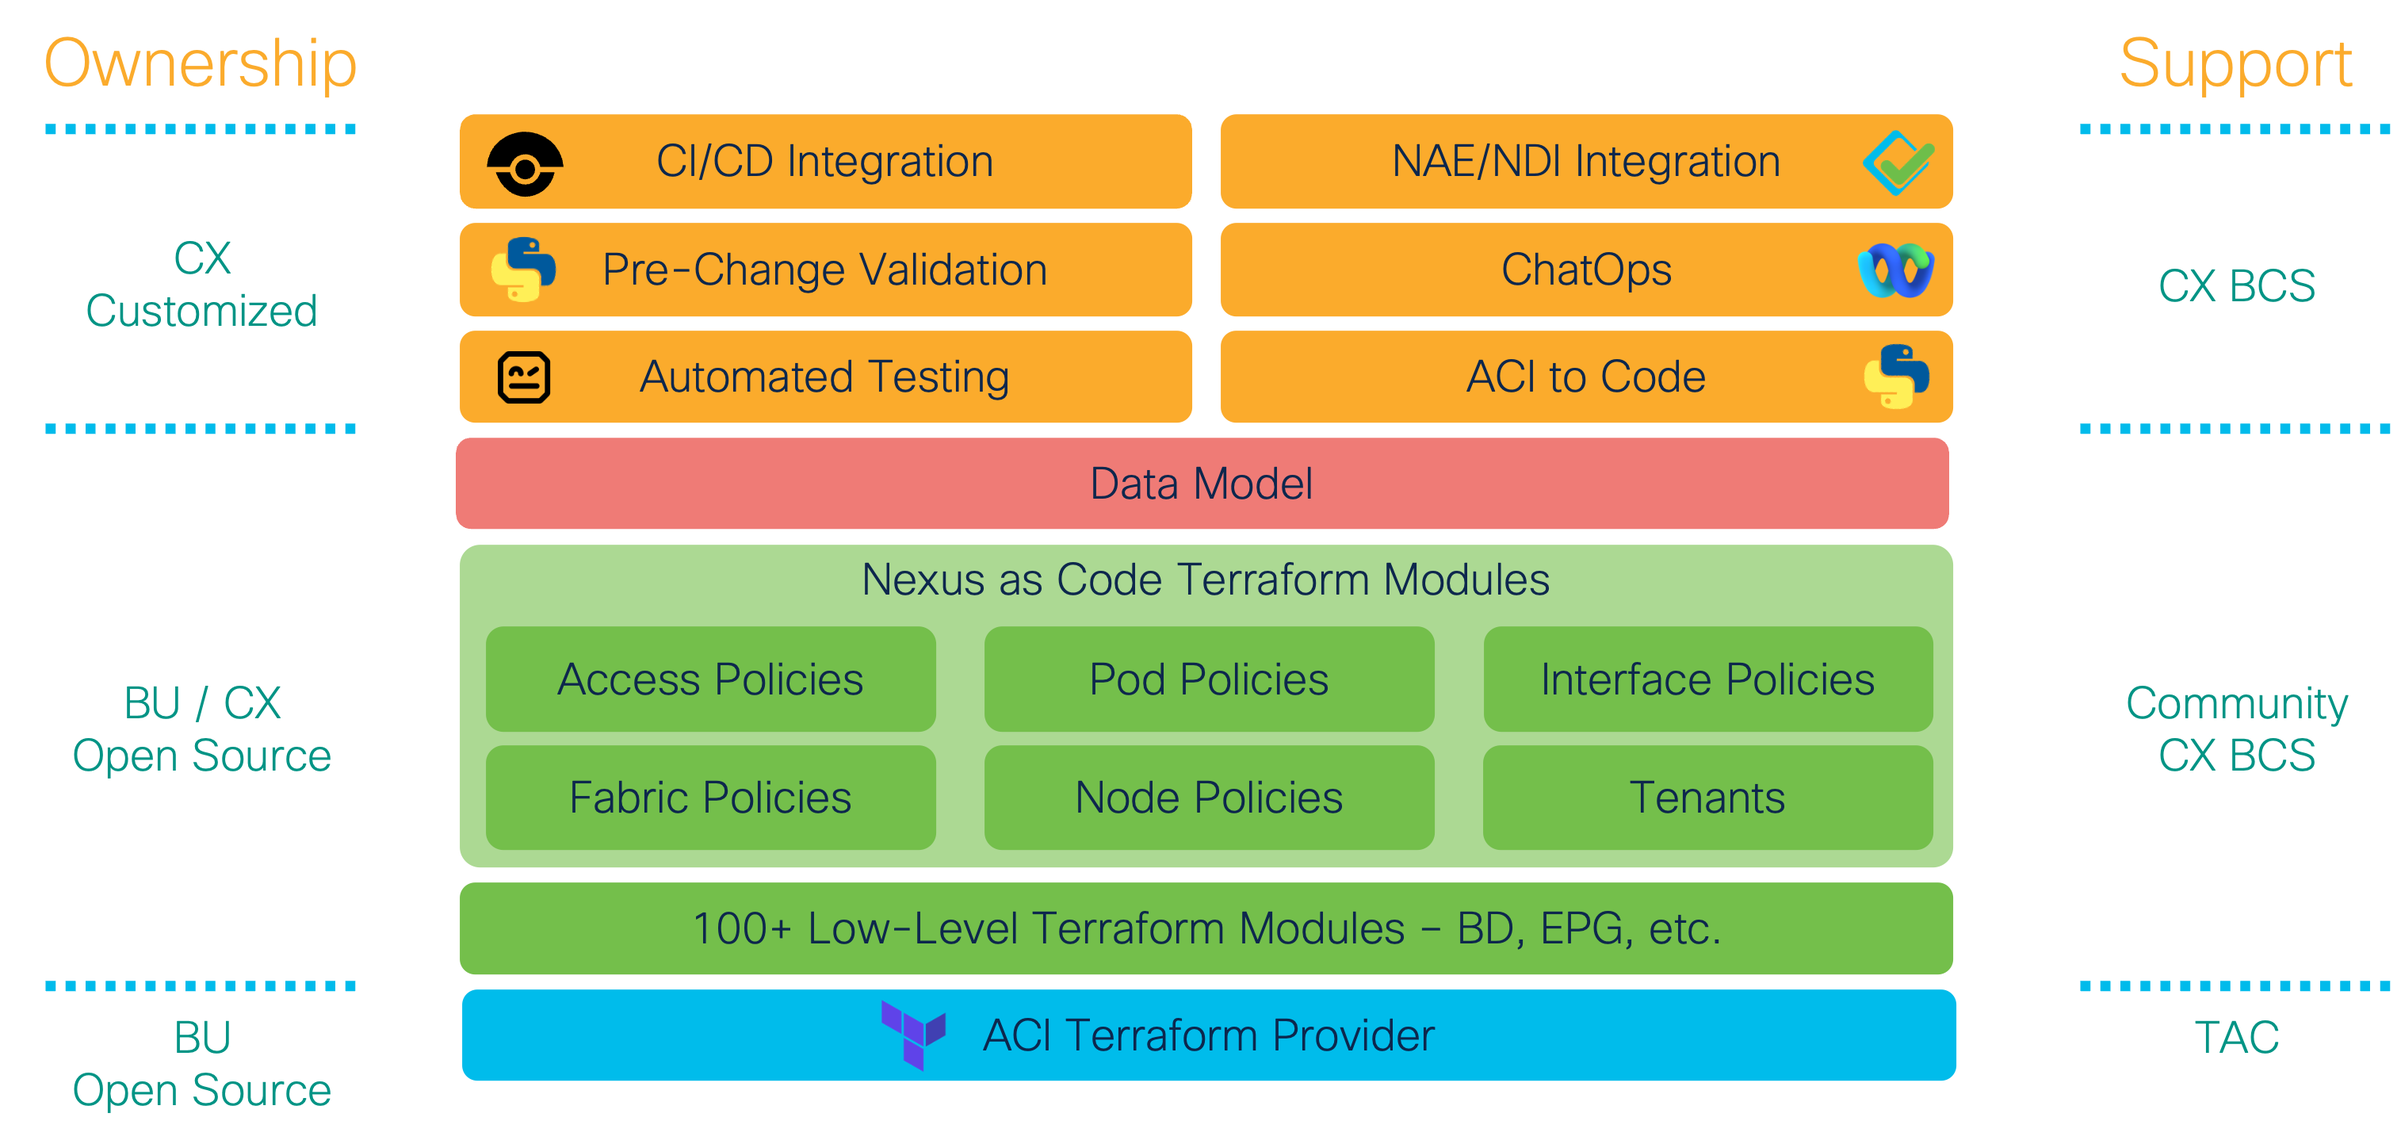
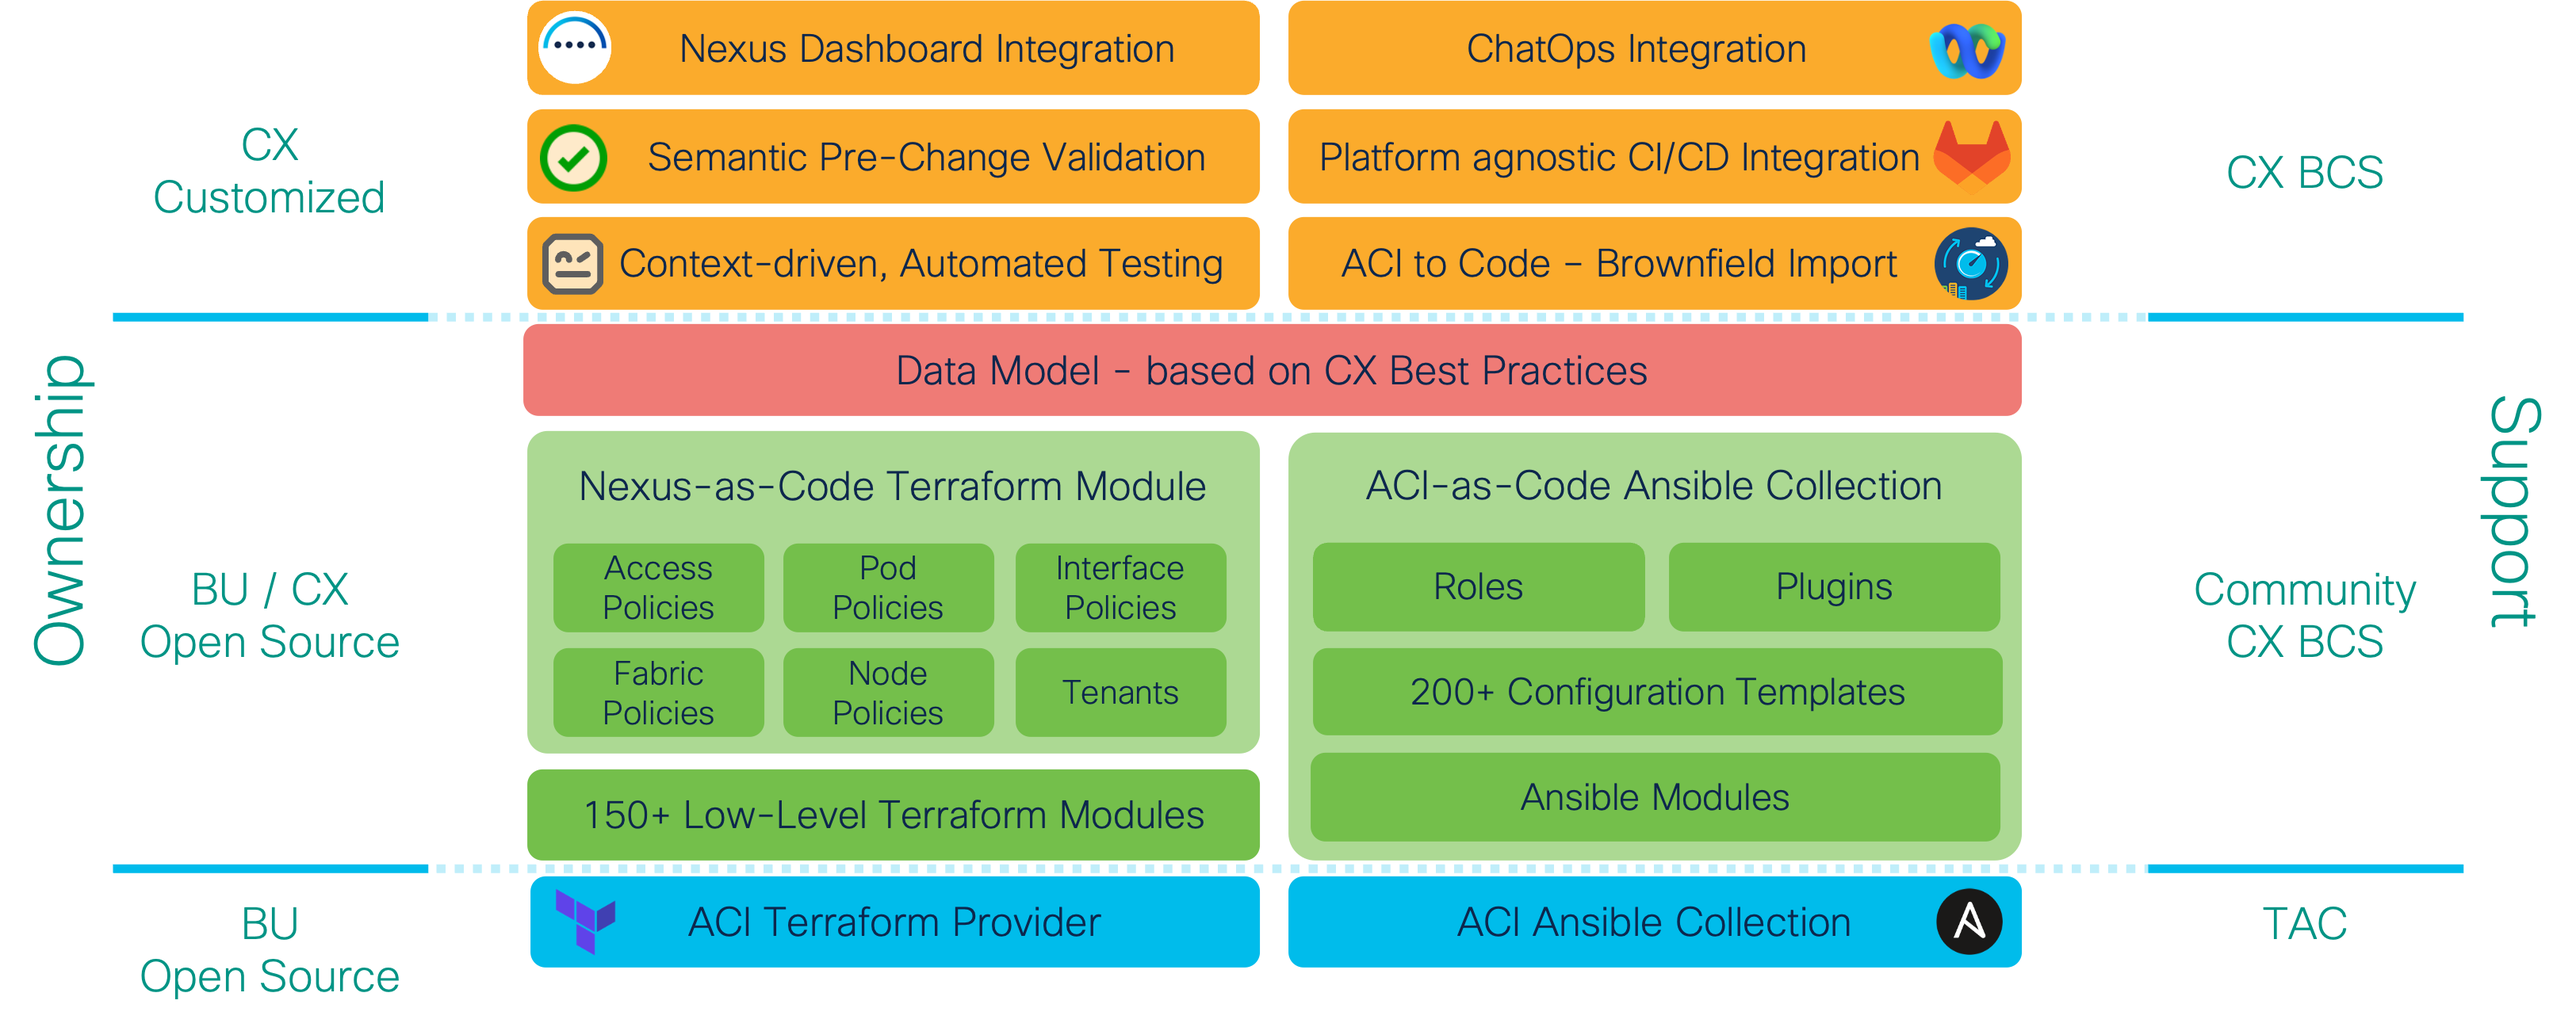
Update terraform overview

diff --git a/docs/terraform/overview.md b/docs/terraform/overview.md
@@ -1,9 +1,9 @@
 # Overview
 
-The low-level Terraform ACI modules are open-sourced and freely available from the public Terraform registry. The high-level *ACI as Code* modules and various integrations for automated testing, NAE/NDI, etc. are part of a CX developed solution.
+All Terraform modules are open-sourced and freely available from the public Terraform registry. Various integrations for automated testing, NAE/NDI, etc. are part of a CX developed solution.
 
 <figure markdown>
-  ![Solution Overview](../assets/tf_solution_overview.png){ width="700" }
+  ![Solution Overview](../assets/tf_solution_overview.png){ width="800" }
 </figure>
 
 ## Structure
@@ -22,8 +22,7 @@ $ tree -L 2
 │   ├── node_1001.yaml
 │   ├── node_101.yaml
 │   ├── node_102.yaml
-│   └── tenant_PROD.yaml
-├── defaults
+│   ├── tenant_PROD.yaml
 │   └── defaults.yaml
 └── main.tf
 ```
@@ -71,24 +70,28 @@ module "aci_contract" {
 }
 ```
 
-## *ACI as Code* Modules
+## *Nexus-as-Code* Module
 
-The *ACI as Code* Terraform modules are responsible for mapping the data to the corresponding ACI modules. The follwing six main modules are being used:
+The *Nexus-as-Code* Terraform module is responsible for mapping the data to the corresponding ACI modules. The configuration is divided into six high level sections:
 
-- [Access Policies](https://wwwin-github.cisco.com/netascode/terraform-aci-access-policies)
-- [Fabric Policies](https://wwwin-github.cisco.com/netascode/terraform-aci-fabric-policies)
-- [Pod Policies](https://wwwin-github.cisco.com/netascode/terraform-aci-pod-policies)
-- [Node Policies](https://wwwin-github.cisco.com/netascode/terraform-aci-node-policies)
-- [Interface Policies](https://wwwin-github.cisco.com/netascode/terraform-aci-interface-policies)
-- [Tenant](https://wwwin-github.cisco.com/netascode/terraform-aci-tenant)
+- `fabric_policies`: Configurations applied at the fabric level (e.g., fabric BGP route reflectors)
+- `access_policies`: Configurations applied to external facing (downlink) interfaces (e.g., VLAN pools)
+- `pod_policies`: Configurations applied at the pod level (e.g., TEP pool addresses)
+- `node_policies`: Configurations applied at the node level (e.g., OOB node management address)
+- `interface_policies`: Configurations applied at the interface level (e.g., assigning interface policy groups to physical ports)
+- `tenants`: Configurations applied at the tenant level (e.g., VRFs and Bridge Domains)
 
-Instead of hardcoding or spreading the definition of default values across different modules, a single file [defaults.yaml](https://wwwin-github.cisco.com/netascode/terraform-aac/blob/master/defaults/defaults.yaml) is used to define all default values in a central location.
+Instead of hardcoding or spreading the definition of default values across different modules, a single file [defaults.yaml](https://wwwin-github.cisco.com/netascode/terraform-aac/blob/master/data/defaults.yaml) is used to define all default values in a central location.
 
 This file is typically customized to reflect the specific customer requirements and reduces the overall size of input files as optional parameters with a default value can be ommited. As some customers prefer to append suffixes to object names, such suffixes can be defined once in `defaults.yaml` and then consistently appended to all objects of a specific type including its references.
 
 ## CI/CD Integration
 
-A sample [Drone](https://www.drone.io/) pipeline covering all solution components can be found here: [link](https://wwwin-github.cisco.com/netascode/terraform-aac/blob/master/.drone.yml)
+The following templates for various CI/CD platforms are provided:
+
+- [Jenkins](https://www.jenkins.io/): <https://wwwin-github.cisco.com/netascode/terraform-aac/blob/master/Jenkinsfile>
+- [GitLab](https://gitlab.com/): <https://wwwin-github.cisco.com/netascode/terraform-aac/blob/master/.gitlab-ci.yml>
+- [Drone](https://www.drone.io/): <https://wwwin-github.cisco.com/netascode/terraform-aac/blob/master/.drone.yml>
 
 ## Pre-Change Validation
 
@@ -125,20 +128,16 @@ To perform syntactic and semantic validation, [iac-validate](https://github.com/
 iac-validate ./data/
 ```
 
-## NAE/NDI Integration
+## NDI Integration
 
-Cisco NAE/NDI offers a feature called *Pre-Change Validation* which allows assessing the impact of a planned change before applying it to the infrastructure.
+Cisco NDI offers a feature called *Pre-Change Validation* which allows assessing the impact of a planned change before applying it to the infrastructure.
 
-A Python [script](https://wwwin-github.cisco.com/netascode/terraform-aac/blob/master/.ci/nae-pcv.py) pushes the rendered JSON configuration of a planned change to NAE and waits until the Pre-Change Validation has been completed. The JSON configuration is rendered from the *Terraform Plan* output.
+A Python [tool](https://github.com/netascode/nexus-pcv) renders the JSON configuration of a planned change from the `terraform plan` output and pushes it to NDI to trigger a Pre-Change Validation.
 
 ```shell
-export NAE_HOSTNAME_IP="10.1.1.101"
-export NAE_USERNAME=admin
-export NAE_PASSWORD=password
-export NAE_ASSURANCE_GROUP=ACI1
 terraform plan -out=plan.tfplan
 terraform show -json plan.tfplan > plan.json
-python ./.ci/nae-pcv.py "My Terraform PCV" ./plan.json
+nexus-pcv --hostname-ip 10.0.0.1 --username admin --password Cisco123 --group <yoursitegroup> --site <yourfabric> --name pcv123 --nac-tf-plan plan.json --output-summary output-summary.txt --output-url output-url.txt
 ```
 
 ## Automated Testing
@@ -175,7 +174,7 @@ No changes. Infrastructure is up-to-date.
 
 ## ChatOps
 
-A sample integration with [Webex](https://www.webex.com/) and [Drone](https://www.drone.io/) can be found here: [link](https://wwwin-github.cisco.com/netascode/terraform-aac/blob/master/.drone.yml)
+A sample integration with [Webex](https://www.webex.com/) can be found in the respective CI/CD pipeline templates.
 
 ## ACI to Code
 
